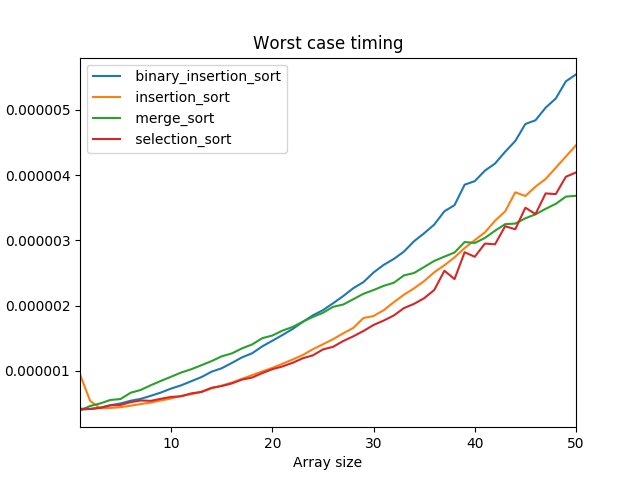
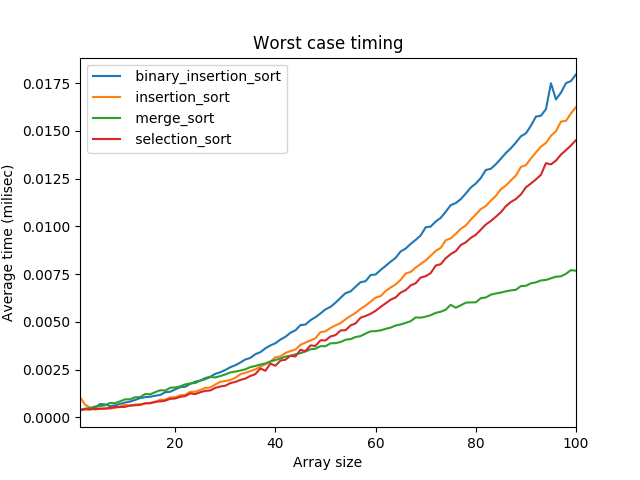
Changed y-axis on sorting algos running timeplot and ran new simulation with array size of 100

diff --git a/Part_1_Foundations/Chap_2_Getting_Started/plot_time_measurments.py b/Part_1_Foundations/Chap_2_Getting_Started/plot_time_measurments.py
@@ -2,6 +2,9 @@ import pandas as pd
 import matplotlib.pyplot as plt
 df = pd.read_csv("time_measurments.csv")
 
+# Rescaling seconds to miliseconds
+df['avg_time'] = df['avg_time']*1000
+
 print(df)
 
 
@@ -11,8 +14,9 @@ for name, group in df.groupby(by='name'):
 	group.plot(x='size', y='avg_time', ax=ax, label=name)
 
 
-plt.title("Worst case timing")
-plt.xlabel("Array size")
-plt.ylabel("Average time (sec)")
+ax.set_title("Worst case timing")
+ax.set_xlabel("Array size")
+ax.set_ylabel("Average time (milisec)")
+ax.ticklabel_format(style='sci', axis='y', scilimits=(-3, 3))
 # plt.show()
 plt.savefig("time_measurments.png")
